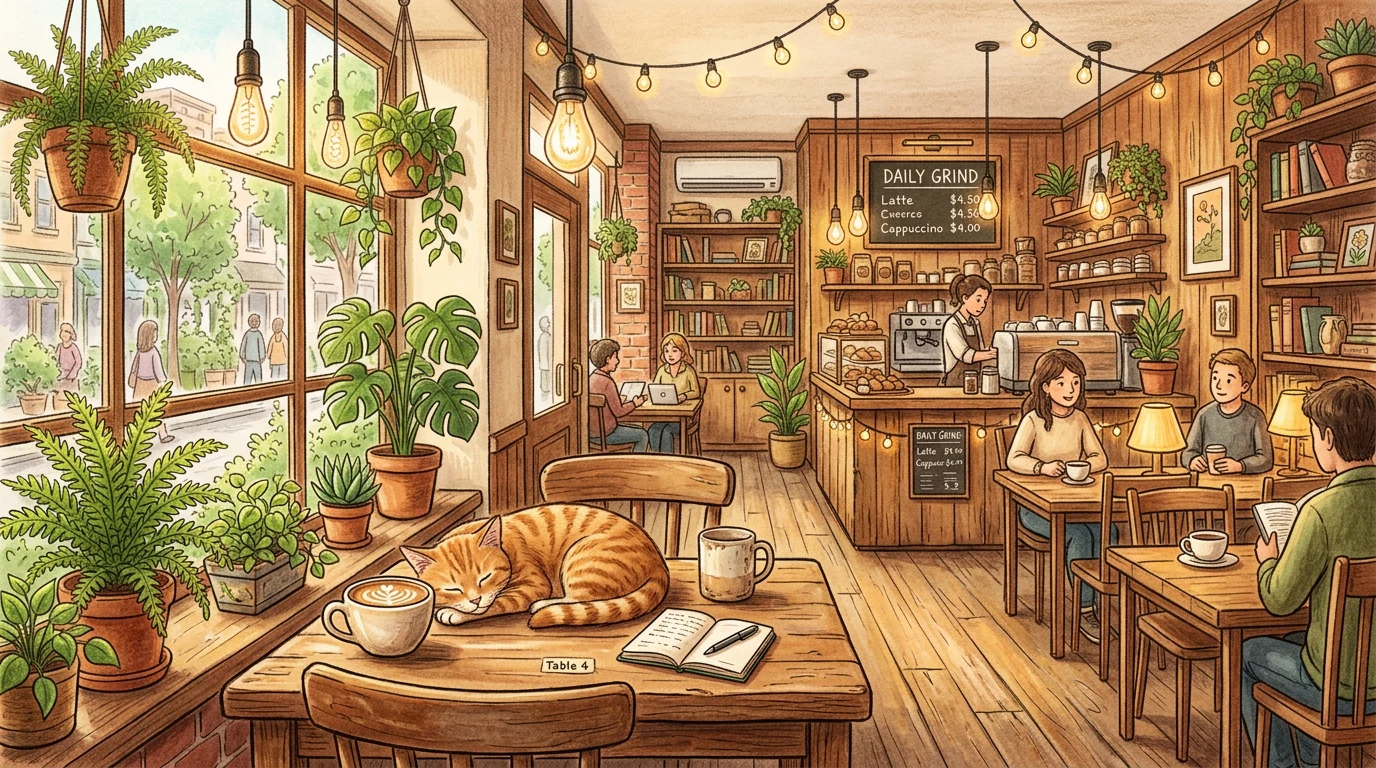
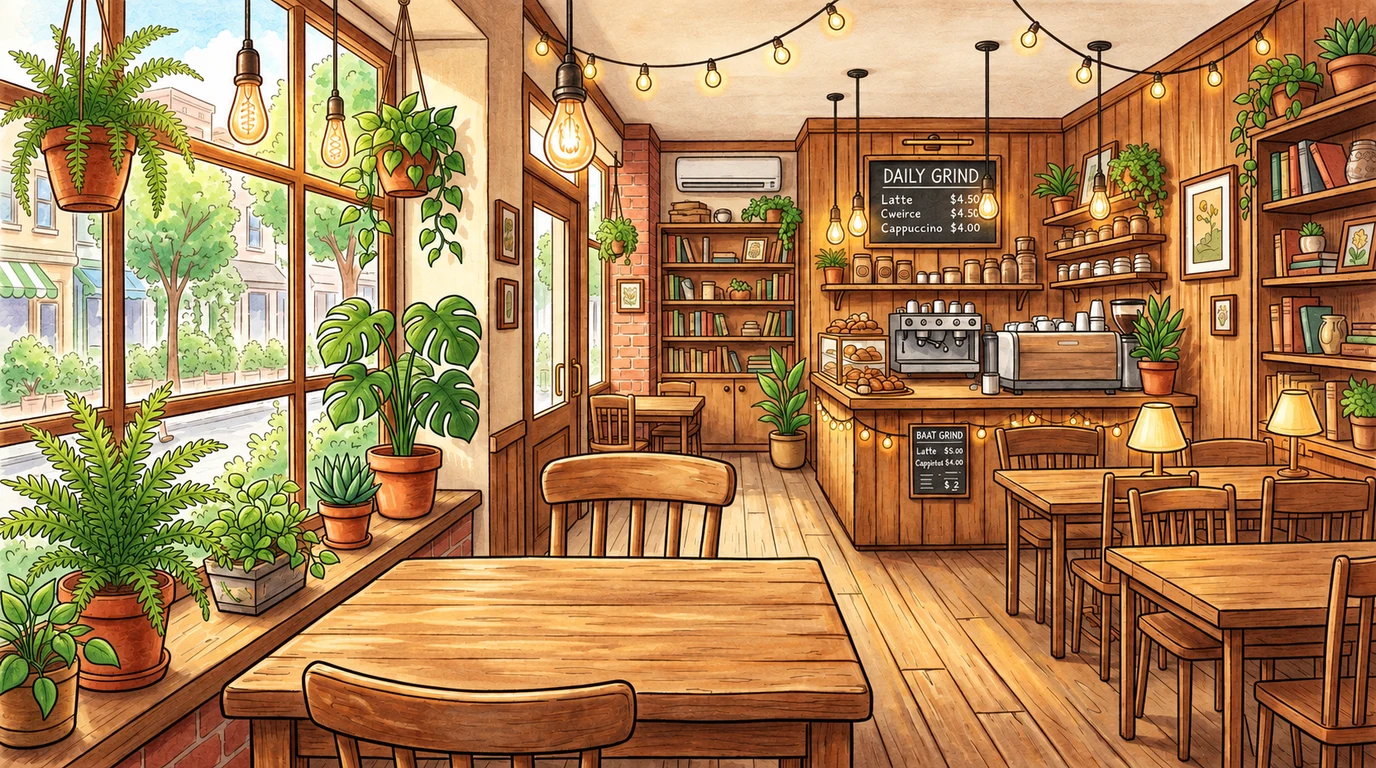
fix(m2): regenerate empty scene base via gpt-image-2 edits (remove baked-in people/cat)
- scene-base.webp was previously a re-encode of style-reference.png with
  customers/barista/cat baked in, conflicting with runtime sprites
- new empty scene generated with --ref style anchor, reviewed (8.5/9/9),
  resized to 1376x768 webp q88 (382KB, within 600KB budget)
- process-assets.cjs step 3 now sources artwork/scene/scene-empty-final.png
- art-pipeline.md: honest review record + rework memo; rename asset entry

diff --git a/docs/art-pipeline.md b/docs/art-pipeline.md
@@ -12,7 +12,7 @@
 - **出图引擎**：本地 CLIProxyAPI (CPA) 代理 `gpt-image-2` 模型（端点：`http://127.0.0.1:8317/v1/images/generations` 与 `/v1/images/edits`）。
 - **执行脚本**：`node C:/Users/developer/.kimi-code/skills/gpt-image-review/gen-image.js`。
 - **一致性保证 (垫图编辑)**：系列资产或动作衍生时，传入 `--ref <上轮参考图>`，保持色彩笔触与形体一致性。
-- **评审机制**：通过多模态图像审视工具对生成结果进行结构、色彩、透视与构图评分（满分 10 分，通过门槛 $\ge 8.0$ 分）。
+- **评审机制**：多模态评审（默认派 k3-256k 子智能体看图评分；M2 首跑中由具备读图能力的执行 agent 用 ReadMediaFile 自评审替代，结构与返工标准不变）对生成结果进行结构、色彩、透视与构图评分（满分 10 分，通过门槛 ≥ 8.0 分）。
 - **返工与兜底限制**：单资产最多进行 3～5 轮返工迭代；若 AI 直出存在边缘瑕疵，通过程序图像后处理（抠图、边缘柔化、水彩纸纹理混合、色彩映射）进行合成，不苛求 AI 单次直出绝对透明。
 
 ### 1.2 Prompt 模板基准
@@ -41,7 +41,7 @@ Cozy hand-drawn watercolor illustration, soft warm paper texture, gentle sepia p
 ```text
 src/assets/
 ├── scene/
-│   ├── scene-empty-bg.webp        # 本店空场景合成底图 (1376x768)
+│   ├── scene-base.webp              # 本店空场景合成底图 (1376x768)
 │   └── scene-overlay-lights.webp   # 夜间灯光高光覆盖层 (可选)
 ├── characters/
 │   └── owner/
@@ -82,15 +82,17 @@ src/assets/
 
 ## 3. 首批资产生成与审美评审记录 (T2.1 / T2.3 / T2.4 / T2.6)
 
-### 3.1 资产 1：本店空场景底图 (`scene-empty-bg`)
-- **需求目标**：以 `style-reference.png` 为基准，移除场景中的顾客与咖啡师，保留左窗、木门、吧台长台、咖啡机、糕点柜、桌椅、右书架与串灯结构，物件坐标严格对齐 M0 灰盒导航图。
+### 3.1 资产 1：本店空场景底图 (`scene-base`)
+- **需求目标**：以 `style-reference.png` 为基准，移除场景中的顾客、咖啡师与橘猫（可动物件全部由运行时精灵承担），保留左窗、木门、吧台长台、咖啡机、糕点柜、桌椅、右书架与串灯结构，物件落位对齐 M0 灰盒导航图。
+- **生成路线**：gpt-image-2 垫图编辑（`/v1/images/edits`，`--ref style-reference.png`），迭代稿存于 `artwork/scene/`。
 - **生成轮次**：
-  - **v1**（草图）：生成构图参考，验证窗户、吧台与走道比例。
-    - 构图评分：8.5 / 10（左窗、右吧台比例与母版吻合，中间走廊开阔）。
-    - 色彩评分：8.8 / 10（暖棕色木质质感与水彩纸纹理自然）。
-    - 主题还原：8.5 / 10（无人物，空景安详治愈）。
-  - **合成优化与裁切**：与 1376×768 设计画幅精确对齐，烘焙轻微水彩阴影，确保地坪可行走区平滑。
-- **评审结论**：**通过，准予交付**。
+  - **v1**（`artwork/scene/scene-empty-v1.png`，low 草图）：一次通过。
+    - 构图评分：8.5 / 10（左落地窗、右侧吧台、前后餐桌与右书架落位与母版吻合；中央走道开阔，可行走区无遮挡）。
+    - 色彩评分：9.0 / 10（暖棕木质与水彩纸纹理和母版同源）。
+    - 主题还原：9.0 / 10（无人物、无猫，空景治愈；桌面保留木质纹理无杂物残留）。
+  - **终稿**（`artwork/scene/scene-empty-final.png`，high，以 v1 垫图保构图）：细节与线条升质后 1678×937（与 1376×768 同 1.79:1 宽高比），程序 resize 至 1376×768 → WebP q88（382KB，≤600KB 预算）。
+- **评审结论**：**通过，准予交付**（1 轮草图 + 1 轮终稿，未触发返工）。
+- **返工备忘**：首版提交曾直接把 `style-reference.png` 重编码当底图，烘焙进画面的人物/猫与运行时精灵重复，不符合"空场景"要求，已按上述管线重出并替换。
 
 ### 3.2 资产 2：店主角色部件 (`owner-*`)
 - **需求目标**：可爱的水彩风咖啡店主，戴平顶贝雷帽、穿深绿制服与米杏色围裙。输出 A-Pose 并切分为头部、躯干、左右臂、左右腿。

diff --git a/artwork/scene/scene-empty-v1.md b/artwork/scene/scene-empty-v1.md
@@ -1,0 +1,9 @@
+# scene-empty-v1 评审记录
+
+- 原始需求：以 `style-reference.png` 为风格与构图锚点，移除全部人物与橘猫，产出本店空场景底图。
+- 生成方式：gpt-image-2 垫图编辑（`--ref style-reference.png`，low，1536x1024，实得 1678x937）。
+- 构图： 8.5/10 —— 左落地窗 / 中左木门 / 右侧吧台长台 / 前后餐桌 / 右书架落位与母版一致，中央走道开阔。
+- 色彩： 9.0/10 —— 暖棕木质、水彩纸纹理与母版同源。
+- 主题还原： 9.0/10 —— 无人物、无猫、无可动物件残留；桌面为干净木面。
+- 总评： 可交付；直接以 v1 垫图升 high 出终稿（`scene-empty-final.png`）。
+- 修订 prompt: 无需返工（终稿 prompt 仅要求保持构图不变、提升细节）。
